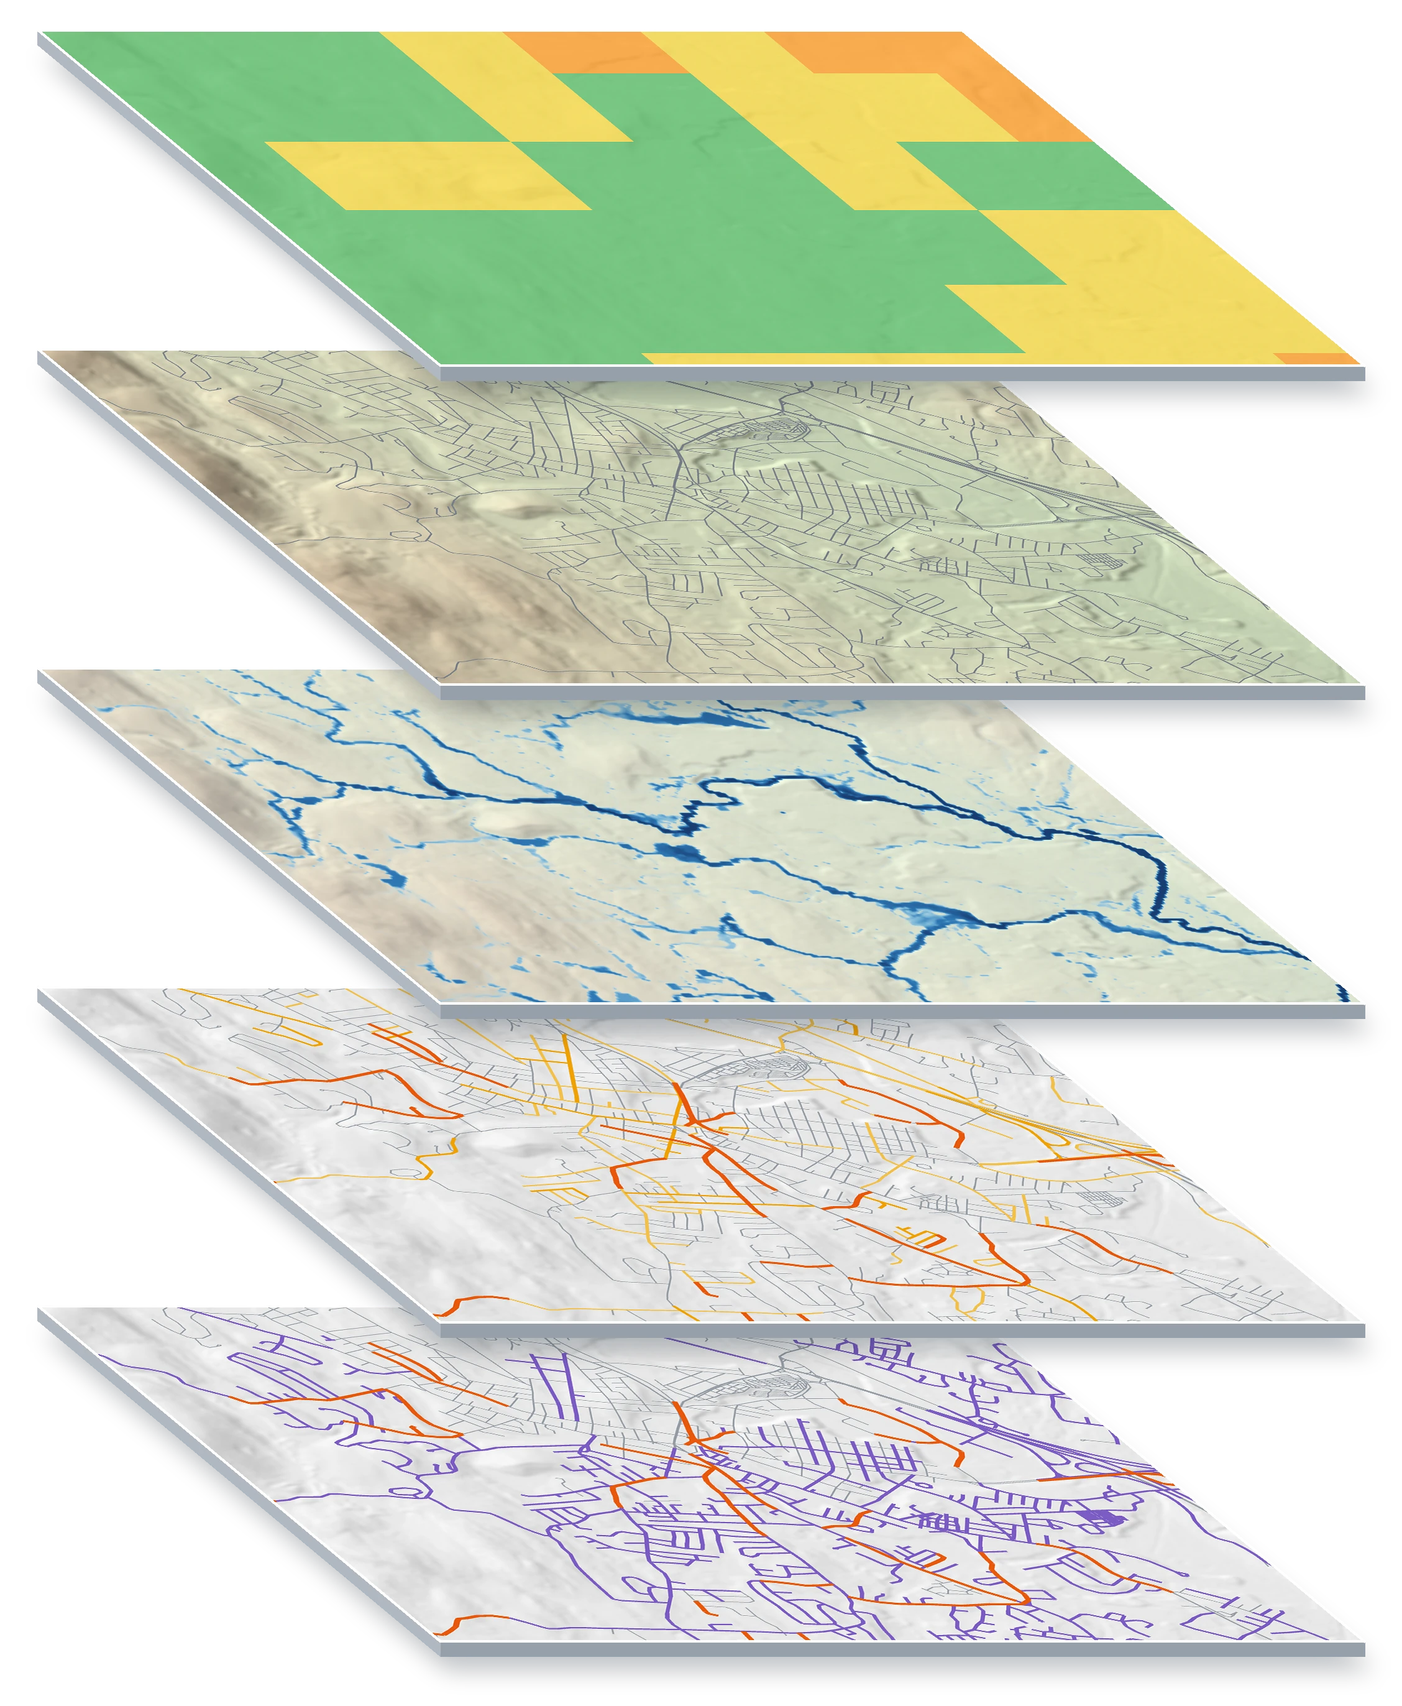
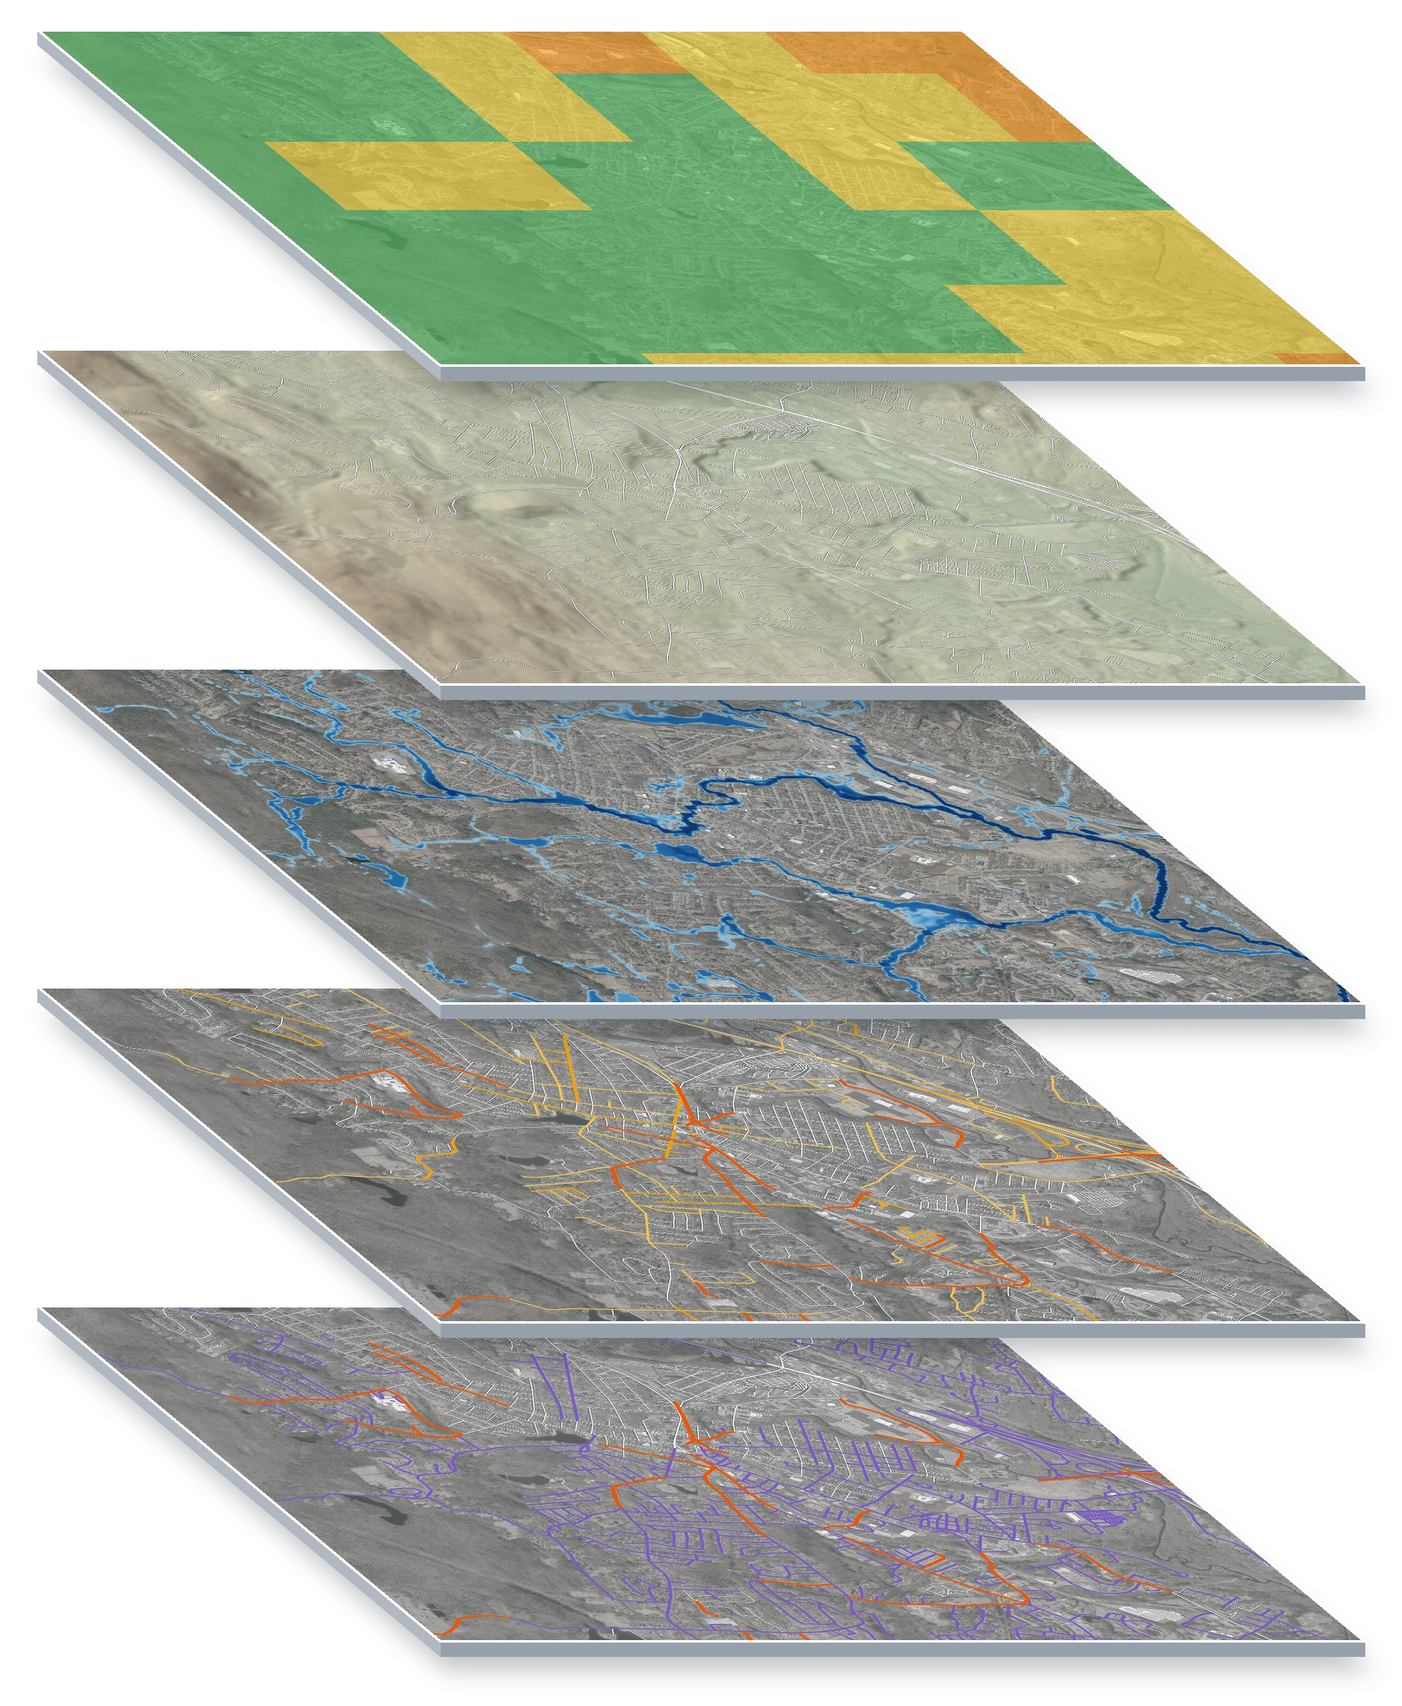
How it works: aerial photo under every step picture (MassGIS 2023), 2.5 m pictures, zoom and pan inside each picture
Claude-Session: https://claude.ai/code/session_01SiES76oibK6J65JoLEiesB

diff --git a/docs/how-it-works/how2.js b/docs/how-it-works/how2.js
@@ -70,6 +70,45 @@
     document.addEventListener('click', function () { if (tip) { tip.remove(); tip = null; } });
   }
 
+
+  // ---------- zoom and pan inside a step picture (buttons, double-click, drag, pinch; the wheel once zoomed or with Ctrl) ----------
+  function zoomify(fig) {
+    var img = fig.querySelector('img'); if (!img || fig._z) return;
+    var Z = fig._z = { s: 1, x: 0, y: 0 }, items = [];
+    function collect() { items = Array.prototype.filter.call(fig.children, function (e) { return e !== img && !e.classList.contains('zbar') && e.style.left; })
+      .map(function (e) { if (e.dataset.bx == null) { e.dataset.bx = parseFloat(e.style.left); e.dataset.by = parseFloat(e.style.top); } return e; }); }
+    function clamp() { Z.s = Math.max(1, Math.min(6, Z.s)); var lo = 100 - 100 * Z.s; Z.x = Math.min(0, Math.max(lo, Z.x)); Z.y = Math.min(0, Math.max(lo, Z.y)); }
+    function apply() {
+      clamp(); img.style.transformOrigin = '0 0'; img.style.transform = 'translate(' + Z.x + '%,' + Z.y + '%) scale(' + Z.s + ')';
+      if (!items.length) collect();
+      items.forEach(function (e) { var x = +e.dataset.bx * Z.s + Z.x, y = +e.dataset.by * Z.s + Z.y; e.style.left = x + '%'; e.style.top = y + '%'; e.style.display = (x < -2 || x > 102 || y < -2 || y > 102) ? 'none' : ''; });
+      fig.classList.toggle('zoomed', Z.s > 1.01); rs.disabled = Z.s <= 1.01;
+    }
+    function zoomAt(f, px, py) { var r = fig.getBoundingClientRect(), u = (px - r.left) / r.width * 100, v = (py - r.top) / r.height * 100, s0 = Z.s; Z.s *= f; clamp(); var k = Z.s / s0; Z.x = u - (u - Z.x) * k; Z.y = v - (v - Z.y) * k; apply(); }
+    var bar = document.createElement('div'); bar.className = 'zbar';
+    bar.innerHTML = '<button type="button" aria-label="Zoom in">+</button><button type="button" aria-label="Zoom out">−</button><button type="button" aria-label="Reset zoom">⤢</button>';
+    fig.appendChild(bar); var bs = bar.querySelectorAll('button'), rs = bs[2];
+    var mid = function () { var r = fig.getBoundingClientRect(); return [r.left + r.width / 2, r.top + r.height / 2]; };
+    bs[0].onclick = function (e) { e.stopPropagation(); var m = mid(); zoomAt(1.6, m[0], m[1]); };
+    bs[1].onclick = function (e) { e.stopPropagation(); var m = mid(); zoomAt(1 / 1.6, m[0], m[1]); };
+    rs.onclick = function (e) { e.stopPropagation(); Z.s = 1; Z.x = Z.y = 0; apply(); };
+    fig.addEventListener('dblclick', function (e) { if (e.target.closest('.zbar,.rep')) return; zoomAt(e.shiftKey ? 1 / 2 : 2, e.clientX, e.clientY); });
+    fig.addEventListener('wheel', function (e) { if (Z.s <= 1.01 && !e.ctrlKey) return; e.preventDefault(); zoomAt(Math.exp(-e.deltaY * 0.0022), e.clientX, e.clientY); }, { passive: false });
+    var drag = null, pts = {};
+    fig.addEventListener('pointerdown', function (e) { if (e.target.closest('.zbar,.rep')) return; pts[e.pointerId] = [e.clientX, e.clientY];
+      if (Object.keys(pts).length === 1 && Z.s > 1.01) { drag = [e.clientX, e.clientY, Z.x, Z.y]; fig.setPointerCapture(e.pointerId); } });
+    fig.addEventListener('pointermove', function (e) {
+      if (!pts[e.pointerId]) return; var prev = pts[e.pointerId]; pts[e.pointerId] = [e.clientX, e.clientY]; var ks = Object.keys(pts);
+      if (ks.length === 2) { var a = pts[ks[0]], b = pts[ks[1]], pa = ks[0] == e.pointerId ? prev : a, pb = ks[1] == e.pointerId ? prev : b;
+        var d0 = Math.hypot(pa[0] - pb[0], pa[1] - pb[1]), d1 = Math.hypot(a[0] - b[0], a[1] - b[1]); if (d0 > 0) zoomAt(d1 / d0, (a[0] + b[0]) / 2, (a[1] + b[1]) / 2); drag = null; return; }
+      if (drag) { var r = fig.getBoundingClientRect(); Z.x = drag[2] + (e.clientX - drag[0]) / r.width * 100; Z.y = drag[3] + (e.clientY - drag[1]) / r.height * 100; apply(); } });
+    var up = function (e) { delete pts[e.pointerId]; drag = null; };
+    fig.addEventListener('pointerup', up); fig.addEventListener('pointercancel', up);
+    var hint = document.createElement('p'); hint.className = 'zhint'; hint.textContent = 'Double-click or press + to zoom in; drag to move around.'; fig.after(hint);
+    fig._zreset = function () { items = []; Z.s = 1; Z.x = Z.y = 0; apply(); };
+    apply();
+  }
+
   // ---------- legends and numbers ----------
   function legends() {
     $('#lg-rain').innerHTML = [['#9ee08c', '0.5'], ['#3eb34e', '2.5'], ['#f7d320', '10'], ['#ff8c00', '25'], ['#de1e2d', '50+']].map(function (c) { return '<span><i class="sw" style="background:' + c[0] + '"></i>' + c[1] + '</span>'; }).join('') + '<span style="color:var(--s-mut)">mm per hour</span>';
@@ -214,7 +253,7 @@
   }
 
   fetch(BASE + 'anchors.json').then(function (r) { return r.json(); }).then(function (j) {
-    A = j; buildMaps(); legends(); numbers('fire_station'); accessToggle(); stack(); stepbar();
+    A = j; buildMaps(); document.querySelectorAll('.mapfig').forEach(zoomify); legends(); numbers('fire_station'); accessToggle(); stack(); stepbar();
   }).catch(function (e) { console.error('how it works', e); });
   fetch('model-tree/tree.json').then(function (r) { return r.json(); }).then(tree).catch(function (e) { console.error('tree', e); });
 })();

diff --git a/docs/how-it-works.html b/docs/how-it-works.html
@@ -9,7 +9,7 @@
 <link rel="preconnect" href="https://fonts.googleapis.com"><link rel="preconnect" href="https://fonts.gstatic.com" crossorigin>
 <link href="https://fonts.googleapis.com/css2?family=Roboto:wght@400;500;700&display=swap" rel="stylesheet">
 <link rel="stylesheet" href="site/shell.css?v=3">
-<link rel="stylesheet" href="how-it-works/how2.css?v=3">
+<link rel="stylesheet" href="how-it-works/how2.css?v=4">
 <script>try{var t=localStorage.getItem('mfw-theme');if(t)document.documentElement.dataset.theme=t}catch(e){}</script>
 </head>
 <body class="page">
@@ -174,6 +174,6 @@
 <aside class="tcard" id="tcard" aria-live="polite" hidden></aside>
 
 <!--sf:start--><footer class="sf"><div class="sf-in"><div><div class="sf-brand"><svg class="sh-mark" viewBox="0 0 32 32" aria-hidden="true"><path d="M16 3c4.6 6 8.5 10.6 8.5 15.2A8.5 8.5 0 0 1 7.5 18.2C7.5 13.6 11.4 9 16 3z" fill="#1a73e8"/><path d="M8.6 20.6c2.4 1.5 4.7 1.5 7 0s4.7-1.5 7.4 0" fill="none" stroke="#fff" stroke-width="2" stroke-linecap="round"/></svg><span><b>Mass Flood</b> Watch</span></div><p style="margin:0 0 12px">Which roads will a flash flood close, and who loses quick access to a hospital, fire station or police? A research project at Worcester Polytechnic Institute that turns radar rain into a road-by-road flood picture for central Massachusetts.</p><p style="margin:0">PhD research by Mohab Eldokla. Advisors: Prof. Mingjiang Tao, Prof. Leonard Albano and Prof. Lindsay Graff.</p></div><div><h4>Explore</h4><ul><li><a href="./">The model map</a></li><li><a href="how-it-works.html">How it works</a></li><li><a href="how-it-works.html#s-tree">The model, part by part</a></li><li><a href="research.html">Research</a></li><li><a href="research.html#progress">Progress</a></li></ul></div><div><h4>About</h4><ul><li><a href="about.html">About the project</a></li><li><a href="about.html#team">Team</a></li><li><a href="about.html#data">Data sources</a></li><li><a href="model-tree-print.html">The model in text</a></li><li><a href="https://www.wpi.edu/academics/departments/civil-environmental-architectural-engineering">WPI Civil, Environmental &amp; Architectural Engineering</a></li></ul></div><div class="sf-contact"><h4>Contact us</h4><ul><li><a href="mailto:mgeldokla@wpi.edu"><svg viewBox="0 0 24 24" aria-hidden="true"><rect x="3" y="5" width="18" height="14" rx="2"/><path d="m3 7 9 6 9-6"/></svg>mgeldokla@wpi.edu</a></li><li style="display:flex;gap:8px"><svg viewBox="0 0 24 24" aria-hidden="true"><path d="M12 21s-7-6.1-7-11a7 7 0 0 1 14 0c0 4.9-7 11-7 11z"/><circle cx="12" cy="10" r="2.5"/></svg><address>Department of Civil, Environmental and Architectural Engineering<br>Worcester Polytechnic Institute<br>100 Institute Road, Worcester, MA 01609</address></li></ul></div><div class="sf-bar"><span>&copy; 2026 Mohab Eldokla · Worcester Polytechnic Institute</span><span class="grow"></span><a href="about.html#data">Data credits</a><a href="mailto:mgeldokla@wpi.edu">Contact</a></div></div></footer><!--sf:end-->
-<script src="how-it-works/how2.js?v=3"></script>
+<script src="how-it-works/how2.js?v=4"></script>
 </body>
 </html>

diff --git a/docs/how-it-works/how2.css b/docs/how-it-works/how2.css
@@ -146,3 +146,14 @@
   .tree-bands{grid-template-columns:1fr}}
 @media (max-width:640px){.chain{grid-template-columns:1fr 1fr}.chain li::after{display:none}.nums{grid-template-columns:1fr}.stepbar{justify-content:flex-start;flex-wrap:nowrap;overflow-x:auto}
   .ml{font-size:10.5px;padding:3px 6px}.ml small{display:none}.tkey{margin-left:0}.tfull{margin-left:0}}
+
+/* zoom inside a step picture */
+.mapfig{touch-action:pan-y}
+.mapfig.zoomed{cursor:grab;touch-action:none}.mapfig.zoomed:active{cursor:grabbing}
+.mapfig img{will-change:transform}
+.zbar{position:absolute;right:10px;top:10px;z-index:6;display:flex;flex-direction:column;border-radius:10px;overflow:hidden;box-shadow:0 1px 4px rgba(0,0,0,.3)}
+.zbar button{width:36px;height:34px;border:0;background:#fff;color:var(--s-ink);font:500 20px/1 var(--s-font);cursor:pointer}
+.zbar button+button{border-top:1px solid var(--s-line2)}
+.zbar button:hover{background:var(--s-bg2)}.zbar button:disabled{color:var(--s-line);cursor:default}
+.mapfig .ml,.mapfig .dot,.mapfig .mk,.mapfig .rep{z-index:3}
+.zhint{margin:2px 0 0;font-size:12.5px;color:var(--s-mut)}

diff --git a/proto/howit_sketch_render.py b/proto/howit_sketch_render.py
@@ -14,7 +14,8 @@ import numpy as np
 from PIL import Image, ImageDraw, ImageFilter
 
 ROOT = os.path.dirname(os.path.dirname(os.path.abspath(__file__))); D = f'{ROOT}/docs/how-it-works/sketch'
-W, H, MPP = 1200, 1080, 5.0                     # layer pixels, metres per pixel
+W, H, MPP = 2400, 2160, 2.5                     # layer pixels (2.5 m each): sharp enough to see buildings on the aerial photo
+SW, SH = 1200, 1080                              # the tilted stack is drawn from half-size layers
 J = json.load(open(f'{D}/sketch.json'))
 X0, Y0, X1, Y1 = J['box_epsg26986']
 
@@ -35,6 +36,19 @@ def hillshade():
     az, alt = math.radians(315), math.radians(42)
     hs = np.sin(alt) * np.cos(slope) + np.cos(alt) * np.sin(slope) * np.cos(az - asp)
     return z, np.clip(hs, 0, 1)
+
+
+AER = None
+
+
+def aerial(grey=0.0, veil=0.22):
+    """MassGIS 2023 orthophoto (proto/howit_aerial.py) at layer size, optionally partly greyed and veiled so overlays stay readable."""
+    global AER
+    if AER is None:
+        AER = np.asarray(Image.open(f'{D}/aerial2m.jpg').convert('RGB').resize((W, H), Image.LANCZOS), np.float32)
+    a = AER.copy()
+    if grey: g = a.mean(axis=2, keepdims=True); a = a * (1 - grey) + g * grey
+    return np.clip(a * (1 - veil) + 255 * veil, 0, 255).astype(np.uint8)
 
 
 def up(a, mode=Image.BILINEAR):
@@ -66,11 +80,11 @@ def water_overlay(rgb, dep):
     return (rgb * (1 - al[..., None]) + col * al[..., None]).astype(np.uint8)
 
 
-def road_lines(draw, roads, color_fn, width_fn, scale=1.0):
+def road_lines(draw, roads, color_fn, width_fn, scale=1.0, wmul=1.5):
     for r in roads:
         c = color_fn(r)
         if c is None: continue
-        w = max(1, int(round(width_fn(r) * scale)))
+        w = max(1, int(round(width_fn(r) * scale * wmul)))
         for part in r['parts']:
             pts = [(x / MPP * scale, y / MPP * scale) for x, y in part]
             if len(pts) > 1: draw.line(pts, fill=c, width=w, joint='curve')
@@ -82,7 +96,8 @@ def base_w(r): return {0: 2, 1: 3, 2: 4}.get(min(r['cls'], 2), 2)
 def layer_roads(rgb, roads, mode='status', service=None, ss=2):
     """Roads drawn at ss x then reduced (anti-aliasing). mode: 'grey' all grey; 'status' grey + coloured status; 'access' lost coverage."""
     im = Image.fromarray(rgb).resize((W * ss, H * ss), Image.BILINEAR); dr = ImageDraw.Draw(im)
-    grey = (150, 158, 166) if mode != 'grey' else (120, 128, 136)
+    grey = (255, 255, 255) if mode != 'grey' else (250, 250, 250)
+    road_lines(dr, roads, lambda r: (60, 64, 70), lambda r: base_w(r) + 1.2, ss)   # dark casing so streets read on the photo
     road_lines(dr, roads, lambda r: grey, base_w, ss)
     if mode == 'status':
         for st in ('wet', 'risk', 'closed'):
@@ -96,11 +111,11 @@ def layer_roads(rgb, roads, mode='status', service=None, ss=2):
 
 
 def rain_layer(z, hs):
-    g = ground_rgb(z, hs, tint=False, light=0.55).astype(float)
+    g = aerial(grey=0.5, veil=0.35).astype(float)
     R = np.load(f'{D}/rain.npy'); rr = np.asarray(Image.fromarray(R).resize((W, H), Image.NEAREST))
     col = np.zeros(rr.shape + (3,)); al = np.zeros(rr.shape)
     for t, c in RAIN:
-        m = rr >= t; col[m] = c; al[m] = 0.66
+        m = rr >= t; col[m] = c; al[m] = 0.55
     return (g * (1 - al[..., None]) + col * al[..., None]).astype(np.uint8), R
 
 
@@ -126,7 +141,7 @@ SX, SHX, SY, SS = 0.62, 0.30, 0.25, 2          # u scale, shear per v, v scale, 
 
 
 def stack(layers, gap=0.95, thick=12):
-    sw, sh = W * SX + H * SHX, H * SY                       # slab footprint (1x)
+    sw, sh = SW * SX + SH * SHX, SH * SY                       # slab footprint (1x)
     step = sh * gap; mx, my = 30, 24
     CW = int((sw + 2 * mx) * SS); CH = int((sh + step * (len(layers) - 1) + thick + 2 * my + 16) * SS)
     can = Image.new('RGBA', (CW, CH), (0, 0, 0, 0)); geo = []
@@ -138,19 +153,19 @@ def stack(layers, gap=0.95, thick=12):
         P = lambda u, v: (ox + sx * u + shx * v, oy + sy * v)
         # shadow and edge first, then the face
         sh_ = Image.new('RGBA', can.size, (0, 0, 0, 0)); ds = ImageDraw.Draw(sh_)
-        q = [P(0, 0), P(W, 0), P(W, H), P(0, H)]
+        q = [P(0, 0), P(SW, 0), P(SW, SH), P(0, SH)]
         ds.polygon([(x + 6 * SS, y + (thick + 10) * SS) for x, y in q], fill=(20, 40, 60, 70))
         can.alpha_composite(sh_.filter(ImageFilter.GaussianBlur(9 * SS)))
         de = ImageDraw.Draw(can)
-        de.polygon([P(0, H), P(W, H), (P(W, H)[0], P(W, H)[1] + thick * SS), (P(0, H)[0], P(0, H)[1] + thick * SS)], fill=(150, 160, 170, 255))
-        de.polygon([P(0, 0), P(0, H), (P(0, H)[0], P(0, H)[1] + thick * SS), (P(0, 0)[0], P(0, 0)[1] + thick * SS)], fill=(176, 184, 192, 255))
+        de.polygon([P(0, SH), P(SW, SH), (P(SW, SH)[0], P(SW, SH)[1] + thick * SS), (P(0, SH)[0], P(0, SH)[1] + thick * SS)], fill=(150, 160, 170, 255))
+        de.polygon([P(0, 0), P(0, SH), (P(0, SH)[0], P(0, SH)[1] + thick * SS), (P(0, 0)[0], P(0, 0)[1] + thick * SS)], fill=(176, 184, 192, 255))
         face = src.transform(can.size, Image.AFFINE, (a, b, c, d, e, f), resample=Image.BICUBIC, fillcolor=(0, 0, 0, 0))
         can.alpha_composite(face)
         de.line(q + [q[0]], fill=(255, 255, 255, 200), width=2 * SS)
         geo.append(dict(k=k, ox=ox, oy=oy))
     geo.sort(key=lambda g: g['k'])
     def proj(k, xm, ym):          # metres in the box -> % of the stack image
-        g = geo[k]; u, v = xm / MPP, ym / MPP
+        g = geo[k]; u, v = xm / (MPP * W / SW), ym / (MPP * H / SH)
         return [round(100 * (g['ox'] + SX * SS * u + SHX * SS * v) / CW, 2), round(100 * (g['oy'] + SY * SS * v) / CH, 2)]
     return can, proj, (CW, CH)
 
@@ -160,18 +175,23 @@ def closeup(dep, r, z, hs, pad=170, out=900):
     P = np.vstack([np.array(p) for p in r['parts']]); cx, cy = P[:, 0].mean(), P[:, 1].mean()
     half = max(np.ptp(P[:, 0]), np.ptp(P[:, 1])) / 2 + pad
     bx0, by0 = cx - half, cy - half; s = out / (2 * half)          # px per metre
-    im = Image.new('RGB', (out, out), PAPER); dr = ImageDraw.Draw(im)
+    A0 = aerial(grey=0.45, veil=0.12); k = W / (W * MPP)            # aerial px per metre
+    crop = Image.fromarray(A0).crop((int(bx0 * k), int(by0 * k), int((bx0 + 2 * half) * k), int((by0 + 2 * half) * k))).resize((out, out), Image.LANCZOS)
+    im = crop.convert('RGBA'); ov = Image.new('RGBA', (out, out), (0, 0, 0, 0)); dr0 = ImageDraw.Draw(ov)
     c0, c1 = int(bx0 // 20), int((bx0 + 2 * half) // 20) + 1; r0, r1 = int(by0 // 20), int((by0 + 2 * half) // 20) + 1
     for rr in range(max(r0, 0), min(r1, dep.shape[0])):
         for cc in range(max(c0, 0), min(c1, dep.shape[1])):
             v = float(dep[rr, cc]); x = (cc * 20 - bx0) * s; y = (rr * 20 - by0) * s
-            g = int(228 + 22 * hs[min(rr, hs.shape[0] - 1), min(cc, hs.shape[1] - 1)] - 12)
-            col = tuple(int(t) for t in lerp_ramp(np.array([v]), DEPTH)[0]) if v >= 0.01 else (g, g, g - 6)
-            dr.rectangle([x, y, x + 20 * s, y + 20 * s], fill=col, outline=(255, 255, 255), width=1)
+            if v >= 0.01:
+                col = tuple(int(t) for t in lerp_ramp(np.array([v]), DEPTH)[0])
+                dr0.rectangle([x, y, x + 20 * s, y + 20 * s], fill=col + (int(150 + 90 * min(v / 0.3, 1)),), outline=(255, 255, 255, 120), width=1)
+            else:
+                dr0.rectangle([x, y, x + 20 * s, y + 20 * s], outline=(255, 255, 255, 70), width=1)
+    im = Image.alpha_composite(im, ov).convert('RGB'); dr = ImageDraw.Draw(im)
     for q in J['roads']:
         for part in q['parts']:
             pts = [((x - bx0) * s, (y - by0) * s) for x, y in part]
-            if len(pts) > 1: dr.line(pts, fill=(90, 98, 106), width=3 if q['id'] != r['id'] else 10)
+            if len(pts) > 1: dr.line(pts, fill=(255, 255, 255), width=3 if q['id'] != r['id'] else 10)
     dots = []
     for part in r['parts']:
         Pp = np.array(part)
@@ -196,14 +216,13 @@ def main():
     A = dict(made_by='proto/howit_sketch_render.py', time=J['time_local'], layers={}, counts=J['counts'])
     meta = json.load(open(f'{ROOT}/docs/site/data/leominster_sep2023/meta.json'))
     rain, R = rain_layer(z, hs); save(rain, 'L_rain.png')
-    ground = ground_rgb(z, hs); g_roads = layer_roads(ground, roads, 'grey'); save(g_roads, 'L_ground.png')
-    pale = ground_rgb(z, hs, light=0.35)
-    water = water_overlay(pale, dep); save(water, 'L_water.png')
-    st = layer_roads(ground_rgb(z, hs, tint=False, light=0.45), roads, 'status'); save(st, 'L_roads.png')
+    ground = ground_rgb(z, hs); g_roads = layer_roads((ground * 0.78 + aerial(grey=0.6, veil=0.0) * 0.22).astype(np.uint8), roads, 'grey'); save(g_roads, 'L_ground.png')
+    water = water_overlay(aerial(grey=0.35, veil=0.18), dep); save(water, 'L_water.png')
+    st = layer_roads(aerial(grey=0.7, veil=0.25), roads, 'status'); save(st, 'L_roads.png')
     acc = {}
     for s in ('fire_station', 'hospital', 'police'):
-        acc[s] = layer_roads(ground_rgb(z, hs, tint=False, light=0.5), roads, 'access', s); save(acc[s], f'L_access_{s}.png')
-    chk = layer_roads(ground_rgb(z, hs, tint=False, light=0.5), roads, 'check'); save(chk, 'L_check.png')
+        acc[s] = layer_roads(aerial(grey=0.75, veil=0.28), roads, 'access', s); save(acc[s], f'L_access_{s}.png')
+    chk = layer_roads(aerial(grey=0.75, veil=0.28), roads, 'check'); save(chk, 'L_check.png')
 
     # ---- anchors (metres in the box)
     km = lambda rs: round(sum(sum(np.hypot(*np.diff(np.array(p), axis=0).T).sum() for p in r['parts']) for r in rs) / 1000, 1)
@@ -261,7 +280,8 @@ def main():
                         m_per_px=round(1 / s, 3))
 
     # ---- the stack (top to bottom: rain, ground, water, roads, access)
-    can, proj, size = stack([rain, g_roads, water, st, acc['fire_station']])
+    half = lambda a: np.asarray(Image.fromarray(a).resize((SW, SH), Image.LANCZOS))
+    can, proj, size = stack([half(x) for x in (rain, g_roads, water, st, acc['fire_station'])])
     can.save(f'{D}/stack.webp', quality=90, method=6)
     def P(k, pos): return proj(k, pos[0] / 100 * W * MPP, pos[1] / 100 * H * MPP)
     A['stack'] = dict(size=size, corners=[[proj(k, 0, 0), proj(k, W * MPP, 0), proj(k, W * MPP, H * MPP), proj(k, 0, H * MPP)] for k in range(5)],
